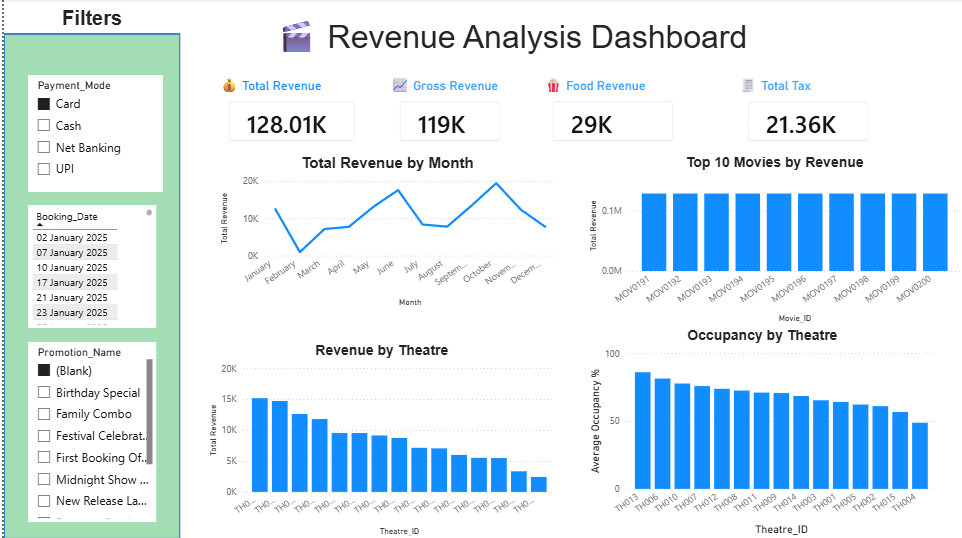
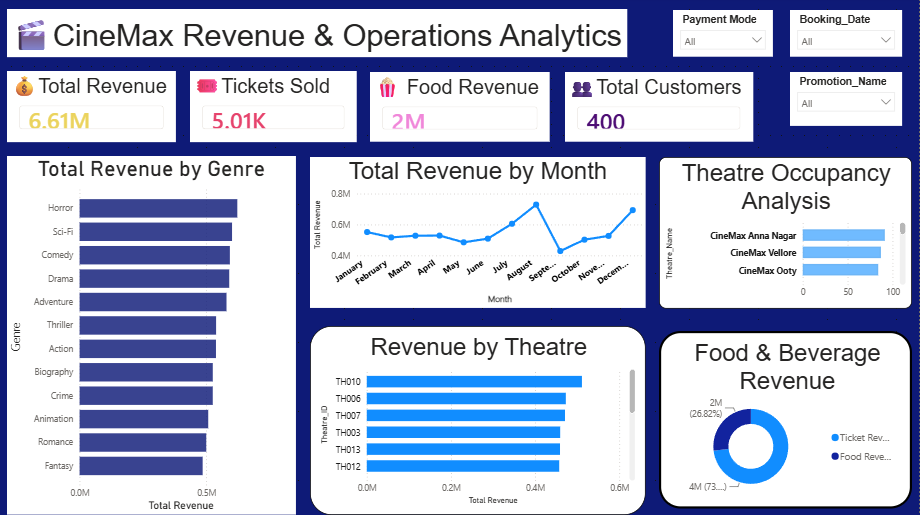
code update

diff --git a/CineMax Multiplex/README.md b/CineMax Multiplex/README.md
@@ -1,52 +1,67 @@
-# 🍿 Movie Theatre Analytics
+# 🍿 Movie Theatre Revenue & Operations Analytics
 
 A specialized business intelligence and data analytics platform engineered to track, monitor, and optimize movie theater multiplex operations. This project provides deep operational insights into ticket distribution, audience turnout, snack counter profitability, and multi-screen screening schedules.
 
 ---
 
-![CineMax Multiplex Analytics Dashboard](./screenshot/dashboard.png)
+![CineMax Multiplex Analytics Dashboard](screenshot/dashboard.png)
 
 ---
 
-## 📊 Project Architecture
+##  Project Architecture
 
 The core data models, logic files, or analytical assets for this project are securely managed within the primary application package:
 
-*   **`CineMax Multiplex/`:** The main project directory holding the core dataset matrices, workbook models, tracking assets, or operational configuration files customized for multiplex branch monitoring.
+* **`Movie-Theatre-Revenue-Analytics/`:** The main repository workspace directory.
+  * **`data/raw/`:** Staging home for original unedited Excel source tables.
+  * **`data/cleaned/`:** Processed target tables transformed through Power Query pipelines.
+  * **`powerbi/Movie_Theatre_Analytics.pbix`:** The primary interactive analytical reporting file.
+  * **`documentation/`:** Houses the Business Requirement Document (BRD) and operational metadata mapping.
 
 ---
 
-## 🔍 Core Analytical Metrics Covered
+##  Core Analytical Metrics Covered
 
 The system transforms raw cinema transaction strings into high-value corporate performance insights:
 
-*   **Box Office Performance:** Monitors revenue velocity, seating fill-rates, and ticket sales yield across different showtimes, weekends, and holidays.
-*   **Concession Stand Profitability:** Tracks food and beverage throughput, sales pairing trends (e.g., combo orders), and inventory margin analysis.
-*   **Screen Utilization Metrics:** Evaluates screen-by-screen throughput to optimize show frequencies based on movie genre popularity and runtime demands.
-*   **Customer Segment Demographics:** Breaks down sales volumes by ticket tiers (e.g., Premium, Standard, Lounges) and promotional channel performance.
+* **Box Office Performance:** Monitors revenue velocity, seating fill-rates, and ticket sales yield across different showtimes, weekends, and holidays.
+* **Concession Stand Profitability:** Tracks food and beverage throughput, sales pairing trends (e.g., combo orders), and inventory margin analysis.
+* **Screen Utilization Metrics:** Evaluates screen-by-screen throughput to optimize show frequencies based on movie genre popularity and runtime demands.
+* **Customer Segment Demographics:** Breaks down sales volumes by ticket tiers (e.g., Premium, Standard, Lounges) and promotional channel performance.
 
 ---
 
-## 🚀 Getting Started
+##  Getting Started
 
 Follow these operational guidelines to review and interact with the analytics models on your local machine.
 
-### 📋 Prerequisites
-Depending on your project execution layer inside the `CineMax Multiplex` directory, make sure you have one of the following installed:
-*   **Microsoft Excel** (2019 or newer) if using relational pivot dashboards and interactive slicers.
-*   **Power BI Desktop** / **Tableau** if interacting with interactive visualization files.
-*   **Python 3.x** and analytical packages (`pandas`, `matplotlib`, `seaborn`) if utilizing programmatic scripts.
+###  Prerequisites
 
-### 💻 Local Setup
+Depending on your project execution layer inside the workspace directory, make sure you have the following installed:
+
+* **Microsoft Power BI Desktop** (Latest Version) to run the primary interactive report workspace.
+* **Microsoft Excel** (2019 or newer) to view or audit the underlying dimension and fact staging tables.
+
+###  Local Setup
+
 1. **Clone the Repository:**
    ```bash
    git clone https://github.com
-   cd Movie_Theatre_Analytics
+   cd Movie-Theatre-Revenue-Analytics
    ```
+
 2. **Access Project Files:**
-   Open the `CineMax Multiplex` folder to access the source datasets, dashboards, or tracking charts.
+   Open the `powerbi` folder and launch `Movie_Theatre_Analytics.pbix` using Power BI Desktop.
+
+3. **Re-link Data Source Files (If Needed):**
+   If path exceptions break the source links upon initial file launch:
+   * Select **Home** > **Transform Data** > **Data source settings** from the ribbon workspace.
+   * Choose **Change Source** and redirect the target parameters to the local path of your spreadsheet files inside `data/raw/`.
+   * Click **Apply Changes** to refresh the dataset.
 
 ---
 
-## 📄 License
+##  License
+
 This repository is open-source and free to adapt for personal, portfolio, or educational purposes.
+